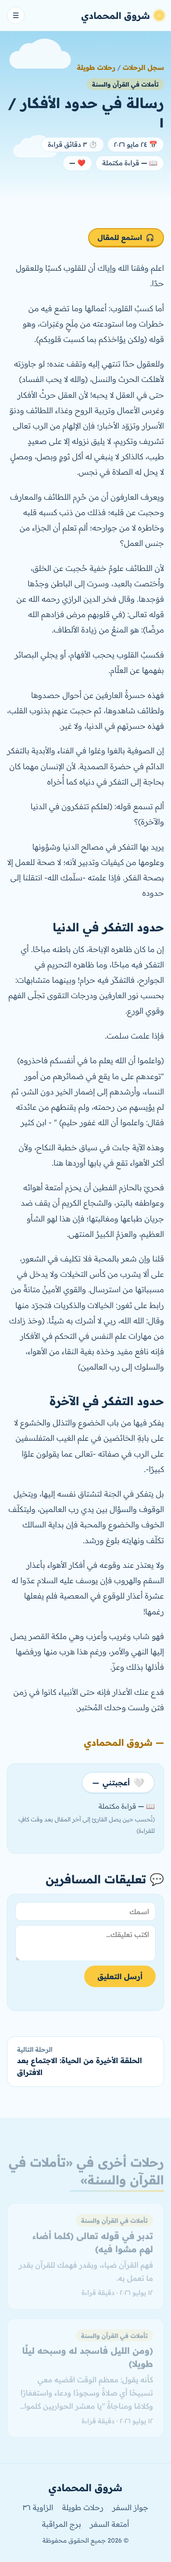
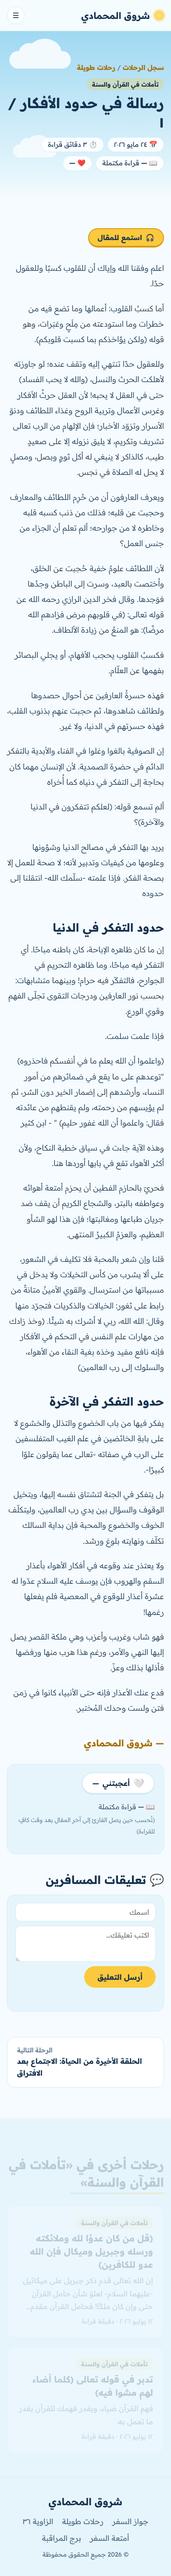
Add the article on (قل من كان عدوًا لله وملائكته ورسله وجبريل وميكال)
Claude-Session: https://claude.ai/code/session_0148avAa54TH8wvGnnB1ukQi

diff --git a/blog/articles/jibril-wa-mikal.html b/blog/articles/jibril-wa-mikal.html
@@ -1,0 +1,121 @@
+<!doctype html>
+<html lang="ar" dir="rtl">
+<head>
+  <meta charset="utf-8">
+  <meta name="viewport" content="width=device-width, initial-scale=1">
+  <title>(قل من كان عدوًا لله وملائكته ورسله وجبريل وميكال فإن الله عدو للكافرين) · شروق المحمادي</title>
+  <meta name="description" content="إن الله تعالى قدم ذكر جبريل على ميكائيل -عليهما السلام- لعلوّ شأن حامل القرآن حتى وإن كان ملكًا! فحامل القرآن مقدم على غيره في الذكر لعلو شأن الذي وقر في صدره">
+  <script>try{var t=localStorage.getItem("theme");if(t)document.documentElement.dataset.theme=t;}catch(e){}</script>
+  <link rel="preconnect" href="https://fonts.googleapis.com">
+  <link rel="preconnect" href="https://fonts.gstatic.com" crossorigin>
+  <link href="https://fonts.googleapis.com/css2?family=Readex+Pro:wght@300;400;500;600;700&family=Amiri+Quran&display=swap" rel="stylesheet">
+  <link rel="stylesheet" href="../../assets/styles.css">
+</head>
+<body>
+  <header class="site-header">
+    <div class="container nav">
+      <a href="../../index.html" class="logo"><span class="logo-sun" aria-hidden="true"></span>شروق المحمادي</a>
+      <button class="menu-toggle" aria-label="فتح القائمة" aria-expanded="false">☰</button>
+      <nav class="nav-links" aria-label="القائمة الرئيسية">
+        <a href="../../index.html">صالة المغادرة</a>
+        <a href="../../sira.html">جواز السفر</a>
+        <div class="has-sub">
+          <a href="../../blog/index.html" class="active">سجل الرحلات <span class="caret" aria-hidden="true">▾</span></a>
+          <div class="sub">
+            <a href="../../blog/articles.html" class="active">رحلات طويلة</a>
+            <a href="../../blog/zawiya-36.html">الزاوية ٣٦</a>
+          </div>
+        </div>
+        <a href="../../books.html">أمتعة السفر</a>
+        <a href="../../contact.html">برج المراقبة</a>
+        <button class="theme-toggle" aria-label="تبديل الوضع الليلي">🌙</button>
+      </nav>
+    </div>
+  </header>
+
+  <main>
+    <section class="page-hero article-hero">
+      <div class="clouds" aria-hidden="true"><span class="cloud c1"></span><span class="cloud c2"></span></div>
+      <div class="container narrow">
+        <nav class="crumbs" aria-label="مسار التنقل"><a href="../index.html">سجل الرحلات</a> / <a href="../articles.html">رحلات طويلة</a></nav>
+        <span class="tag">تأملات في القرآن والسنة</span>
+        <h1>(قل من كان عدوًا لله وملائكته ورسله وجبريل وميكال فإن الله عدو للكافرين)</h1>
+        <ul class="post-meta">
+          <li>📅 ١٢ يوليو ٢٠٢٦</li>
+          <li>⏱ دقيقة قراءة</li>
+          <li>📖 <b class="read-count">…</b> قراءة مكتملة</li>
+          <li>❤ <b class="like-count">…</b></li>
+        </ul>
+      </div>
+    </section>
+
+    <article class="section" id="post" data-slug="jibril-wa-mikal" data-minutes="0.33">
+      <div class="container narrow prose">
+        <div class="listen" hidden>
+          <button class="listen-btn" type="button"><span class="listen-icon" aria-hidden="true">🎧</span> <span class="listen-label">استمع للمقال</span></button>
+          <button class="listen-stop" type="button" hidden>⏹ إيقاف</button>
+          <button class="listen-rate" type="button" hidden>السرعة ١×</button>
+          <span class="listen-status" role="status"></span>
+        </div>
+        <p>إن الله تعالى قدم ذكر جبريل على ميكائيل -عليهما السلام- لعلوّ شأن حامل القرآن حتى وإن كان ملكًا! فحامل القرآن مقدم على غيره في الذكر لعلو شأن الذي وقر في صدره</p>
+        <p>"أنَّ جِبْرِيلَ عَلَيْهِ السَّلامُ يَنْزِلُ بِالقُرْآنِ والوَحْيِ والعِلْمِ وهو مادَّةُ بَقاءِ الأرْواحِ، ومِيكائِيلُ يَنْزِلُ بِالخِصْبِ والأمْطارِ وهي مادَّةُ بَقاءِ الأبْدانِ، ولَمّا كانَ العِلْمُ أشْرَفَ مِنَ الأغْذِيَةِ وجَبَ أنْ يَكُونَ جِبْرِيلُ أفْضَلَ مِن مِيكائِيلَ." -الرازي.</p>
+        <p class="signature">— شروق المحمادي</p>
+        <div class="engage">
+          <button class="like-btn" type="button" aria-pressed="false"><span class="heart" aria-hidden="true">🤍</span> أعجبتني <b class="like-count">…</b></button>
+          <p class="reads-note">📖 <b class="read-count">…</b> قراءة مكتملة <small>(تُحسب حين يصل القارئ إلى آخر المقال بعد وقت كافٍ للقراءة)</small></p>
+        </div>
+        <section class="comments" hidden aria-labelledby="comments-title">
+          <h2 id="comments-title">💬 تعليقات المسافرين</h2>
+          <form class="comment-form" novalidate>
+            <input name="name" type="text" maxlength="40" placeholder="اسمك" aria-label="الاسم" autocomplete="nickname">
+            <textarea name="body" rows="3" maxlength="1000" placeholder="اكتب تعليقك…" aria-label="التعليق"></textarea>
+            <input name="website" class="hp" type="text" tabindex="-1" autocomplete="off" aria-hidden="true">
+            <button type="submit" class="btn btn-primary">أرسل التعليق</button>
+            <p class="comment-status" role="status"></p>
+          </form>
+          <ol class="comment-list"></ol>
+          <p class="no-comments" hidden>لا تعليقات بعد… كن أول من يعلّق ✈</p>
+        </section>
+        <nav class="post-nav" aria-label="تنقل بين الرحلات"><a class="pn prev" href="kullama-adaa-lahum.html"><span>الرحلة السابقة</span>تدبر في قوله تعالى (كلما أضاء لهم مشوا فيه)</a></nav>
+      </div>
+    </article>
+
+    <section class="section alt">
+      <div class="container">
+        <h2 class="section-title">رحلات أخرى في «تأملات في القرآن والسنة»</h2>
+        <div class="posts">
+          <article class="post-card" data-tag="تأملات في القرآن والسنة">
+            <span class="tag">تأملات في القرآن والسنة</span>
+            <h3><a class="stretched" href="../articles/kullama-adaa-lahum.html">تدبر في قوله تعالى (كلما أضاء لهم مشوا فيه)</a></h3>
+            <p>فهم القرآن ضياء، وبقدر فهمك للقرآن بقدر ما تعمل به.</p>
+            <p class="meta">١٢ يوليو ٢٠٢٦ · دقيقة قراءة</p>
+          </article>
+          <article class="post-card" data-tag="تأملات في القرآن والسنة">
+            <span class="tag">تأملات في القرآن والسنة</span>
+            <h3><a class="stretched" href="../articles/wa-min-al-layl.html">(ومن الليل فاسجد له وسبحه ليلًا طويلا)</a></h3>
+            <p>كأنه يقول: معظم الوقت اقضيه معي تسبيحًا أي صلاةً وسجودًا ودعاء واستغفارًا وكلامًا ومناجاةً "يا معشر الحواريين كلموا الله أكثر مما تكلمون الناس" فهذا الوقت له وحده لا لنفسك ولا للخلق.</p>
+            <p class="meta">١٢ يوليو ٢٠٢٦ · دقيقة قراءة</p>
+          </article>
+        </div>
+      </div>
+    </section>
+
+  </main>
+
+  <footer class="site-footer">
+    <div class="container footer-inner">
+      <p class="footer-name">شروق المحمادي</p>
+      <nav class="footer-links" aria-label="روابط التذييل">
+        <a href="../../sira.html">جواز السفر</a>
+        <a href="../../blog/articles.html">رحلات طويلة</a>
+        <a href="../../blog/zawiya-36.html">الزاوية ٣٦</a>
+        <a href="../../books.html">أمتعة السفر</a>
+        <a href="../../contact.html">برج المراقبة</a>
+      </nav>
+      <p class="copy">© <span class="year"></span> جميع الحقوق محفوظة</p>
+    </div>
+  </footer>
+
+  <script src="../../assets/script.js"></script>
+</body>
+</html>

diff --git a/blog/articles/kullama-adaa-lahum.html b/blog/articles/kullama-adaa-lahum.html
@@ -77,7 +77,7 @@
           <ol class="comment-list"></ol>
           <p class="no-comments" hidden>لا تعليقات بعد… كن أول من يعلّق ✈</p>
         </section>
-        <nav class="post-nav" aria-label="تنقل بين الرحلات"><a class="pn prev" href="wa-min-al-layl.html"><span>الرحلة السابقة</span>(ومن الليل فاسجد له وسبحه ليلًا طويلا)</a></nav>
+        <nav class="post-nav" aria-label="تنقل بين الرحلات"><a class="pn prev" href="wa-min-al-layl.html"><span>الرحلة السابقة</span>(ومن الليل فاسجد له وسبحه ليلًا طويلا)</a><a class="pn next" href="jibril-wa-mikal.html"><span>الرحلة التالية</span>(قل من كان عدوًا لله وملائكته ورسله وجبريل وميكال فإن الله عدو للكافرين)</a></nav>
       </div>
     </article>
 
@@ -87,15 +87,15 @@
         <div class="posts">
           <article class="post-card" data-tag="تأملات في القرآن والسنة">
             <span class="tag">تأملات في القرآن والسنة</span>
-            <h3><a class="stretched" href="../articles/wa-min-al-layl.html">(ومن الليل فاسجد له وسبحه ليلًا طويلا)</a></h3>
-            <p>كأنه يقول: معظم الوقت اقضيه معي تسبيحًا أي صلاةً وسجودًا ودعاء واستغفارًا وكلامًا ومناجاةً "يا معشر الحواريين كلموا الله أكثر مما تكلمون الناس" فهذا الوقت له وحده لا لنفسك ولا للخلق.</p>
+            <h3><a class="stretched" href="../articles/jibril-wa-mikal.html">(قل من كان عدوًا لله وملائكته ورسله وجبريل وميكال فإن الله عدو للكافرين)</a></h3>
+            <p>إن الله تعالى قدم ذكر جبريل على ميكائيل -عليهما السلام- لعلوّ شأن حامل القرآن حتى وإن كان ملكًا! فحامل القرآن مقدم على غيره في الذكر لعلو شأن الذي وقر في صدره</p>
             <p class="meta">١٢ يوليو ٢٠٢٦ · دقيقة قراءة</p>
           </article>
           <article class="post-card" data-tag="تأملات في القرآن والسنة">
             <span class="tag">تأملات في القرآن والسنة</span>
-            <h3><a class="stretched" href="../articles/al-quwwa-al-manawiyya.html">القوة المعنوية هبةٌ من الله</a></h3>
-            <p>وكل قوة معنوية من صبر بأنواعه، وثبات عند الفتن وشجاعة مع القلة، وفرح وسرور عند نزول المصائب! كلها هباتٌ من الله تعالى وتأييد منه للعبد وليست من تلقاء نفسه</p>
-            <p class="meta">١١ يوليو ٢٠٢٦ · دقيقة قراءة</p>
+            <h3><a class="stretched" href="../articles/wa-min-al-layl.html">(ومن الليل فاسجد له وسبحه ليلًا طويلا)</a></h3>
+            <p>كأنه يقول: معظم الوقت اقضيه معي تسبيحًا أي صلاةً وسجودًا ودعاء واستغفارًا وكلامًا ومناجاةً "يا معشر الحواريين كلموا الله أكثر مما تكلمون الناس" فهذا الوقت له وحده لا لنفسك ولا للخلق.</p>
+            <p class="meta">١٢ يوليو ٢٠٢٦ · دقيقة قراءة</p>
           </article>
         </div>
       </div>

diff --git a/blog/index.html b/blog/index.html
@@ -50,7 +50,7 @@
             <span class="door-icon">✍</span>
             <h2>رحلات طويلة</h2>
             <p>نصوص أطول أتعمّق فيها في فكرة أو تجربة أو كتاب.</p>
-            <span class="count">١٤ رحلات</span>
+            <span class="count">١٥ رحلات</span>
           </a>
           <a class="blog-door night" href="zawiya-36.html">
             <span class="door-icon">🌙</span>
@@ -71,6 +71,12 @@
         <div class="posts">
           <article class="post-card" data-tag="تأملات في القرآن والسنة">
             <span class="tag">تأملات في القرآن والسنة</span>
+            <h3><a class="stretched" href="articles/jibril-wa-mikal.html">(قل من كان عدوًا لله وملائكته ورسله وجبريل وميكال فإن الله عدو للكافرين)</a></h3>
+            <p>إن الله تعالى قدم ذكر جبريل على ميكائيل -عليهما السلام- لعلوّ شأن حامل القرآن حتى وإن كان ملكًا! فحامل القرآن مقدم على غيره في الذكر لعلو شأن الذي وقر في صدره</p>
+            <p class="meta">١٢ يوليو ٢٠٢٦ · دقيقة قراءة</p>
+          </article>
+          <article class="post-card" data-tag="تأملات في القرآن والسنة">
+            <span class="tag">تأملات في القرآن والسنة</span>
             <h3><a class="stretched" href="articles/kullama-adaa-lahum.html">تدبر في قوله تعالى (كلما أضاء لهم مشوا فيه)</a></h3>
             <p>فهم القرآن ضياء، وبقدر فهمك للقرآن بقدر ما تعمل به.</p>
             <p class="meta">١٢ يوليو ٢٠٢٦ · دقيقة قراءة</p>
@@ -80,12 +86,6 @@
             <h3><a class="stretched" href="articles/wa-min-al-layl.html">(ومن الليل فاسجد له وسبحه ليلًا طويلا)</a></h3>
             <p>كأنه يقول: معظم الوقت اقضيه معي تسبيحًا أي صلاةً وسجودًا ودعاء واستغفارًا وكلامًا ومناجاةً "يا معشر الحواريين كلموا الله أكثر مما تكلمون الناس" فهذا الوقت له وحده لا لنفسك ولا للخلق.</p>
             <p class="meta">١٢ يوليو ٢٠٢٦ · دقيقة قراءة</p>
-          </article>
-          <article class="post-card" data-tag="تأملات في القرآن والسنة">
-            <span class="tag">تأملات في القرآن والسنة</span>
-            <h3><a class="stretched" href="articles/al-quwwa-al-manawiyya.html">القوة المعنوية هبةٌ من الله</a></h3>
-            <p>وكل قوة معنوية من صبر بأنواعه، وثبات عند الفتن وشجاعة مع القلة، وفرح وسرور عند نزول المصائب! كلها هباتٌ من الله تعالى وتأييد منه للعبد وليست من تلقاء نفسه</p>
-            <p class="meta">١١ يوليو ٢٠٢٦ · دقيقة قراءة</p>
           </article>
         </div>
       </div>

diff --git a/index.html b/index.html
@@ -77,6 +77,12 @@
         <div class="posts">
           <article class="post-card" data-tag="تأملات في القرآن والسنة">
             <span class="tag">تأملات في القرآن والسنة</span>
+            <h3><a class="stretched" href="blog/articles/jibril-wa-mikal.html">(قل من كان عدوًا لله وملائكته ورسله وجبريل وميكال فإن الله عدو للكافرين)</a></h3>
+            <p>إن الله تعالى قدم ذكر جبريل على ميكائيل -عليهما السلام- لعلوّ شأن حامل القرآن حتى وإن كان ملكًا! فحامل القرآن مقدم على غيره في الذكر لعلو شأن الذي وقر في صدره</p>
+            <p class="meta">١٢ يوليو ٢٠٢٦ · دقيقة قراءة</p>
+          </article>
+          <article class="post-card" data-tag="تأملات في القرآن والسنة">
+            <span class="tag">تأملات في القرآن والسنة</span>
             <h3><a class="stretched" href="blog/articles/kullama-adaa-lahum.html">تدبر في قوله تعالى (كلما أضاء لهم مشوا فيه)</a></h3>
             <p>فهم القرآن ضياء، وبقدر فهمك للقرآن بقدر ما تعمل به.</p>
             <p class="meta">١٢ يوليو ٢٠٢٦ · دقيقة قراءة</p>
@@ -86,12 +92,6 @@
             <h3><a class="stretched" href="blog/articles/wa-min-al-layl.html">(ومن الليل فاسجد له وسبحه ليلًا طويلا)</a></h3>
             <p>كأنه يقول: معظم الوقت اقضيه معي تسبيحًا أي صلاةً وسجودًا ودعاء واستغفارًا وكلامًا ومناجاةً "يا معشر الحواريين كلموا الله أكثر مما تكلمون الناس" فهذا الوقت له وحده لا لنفسك ولا للخلق.</p>
             <p class="meta">١٢ يوليو ٢٠٢٦ · دقيقة قراءة</p>
-          </article>
-          <article class="post-card" data-tag="تأملات في القرآن والسنة">
-            <span class="tag">تأملات في القرآن والسنة</span>
-            <h3><a class="stretched" href="blog/articles/al-quwwa-al-manawiyya.html">القوة المعنوية هبةٌ من الله</a></h3>
-            <p>وكل قوة معنوية من صبر بأنواعه، وثبات عند الفتن وشجاعة مع القلة، وفرح وسرور عند نزول المصائب! كلها هباتٌ من الله تعالى وتأييد منه للعبد وليست من تلقاء نفسه</p>
-            <p class="meta">١١ يوليو ٢٠٢٦ · دقيقة قراءة</p>
           </article>
         </div>
       </div>

diff --git a/blog/articles/wa-min-al-layl.html b/blog/articles/wa-min-al-layl.html
@@ -86,15 +86,15 @@
         <div class="posts">
           <article class="post-card" data-tag="تأملات في القرآن والسنة">
             <span class="tag">تأملات في القرآن والسنة</span>
-            <h3><a class="stretched" href="../articles/kullama-adaa-lahum.html">تدبر في قوله تعالى (كلما أضاء لهم مشوا فيه)</a></h3>
-            <p>فهم القرآن ضياء، وبقدر فهمك للقرآن بقدر ما تعمل به.</p>
+            <h3><a class="stretched" href="../articles/jibril-wa-mikal.html">(قل من كان عدوًا لله وملائكته ورسله وجبريل وميكال فإن الله عدو للكافرين)</a></h3>
+            <p>إن الله تعالى قدم ذكر جبريل على ميكائيل -عليهما السلام- لعلوّ شأن حامل القرآن حتى وإن كان ملكًا! فحامل القرآن مقدم على غيره في الذكر لعلو شأن الذي وقر في صدره</p>
             <p class="meta">١٢ يوليو ٢٠٢٦ · دقيقة قراءة</p>
           </article>
           <article class="post-card" data-tag="تأملات في القرآن والسنة">
             <span class="tag">تأملات في القرآن والسنة</span>
-            <h3><a class="stretched" href="../articles/al-quwwa-al-manawiyya.html">القوة المعنوية هبةٌ من الله</a></h3>
-            <p>وكل قوة معنوية من صبر بأنواعه، وثبات عند الفتن وشجاعة مع القلة، وفرح وسرور عند نزول المصائب! كلها هباتٌ من الله تعالى وتأييد منه للعبد وليست من تلقاء نفسه</p>
-            <p class="meta">١١ يوليو ٢٠٢٦ · دقيقة قراءة</p>
+            <h3><a class="stretched" href="../articles/kullama-adaa-lahum.html">تدبر في قوله تعالى (كلما أضاء لهم مشوا فيه)</a></h3>
+            <p>فهم القرآن ضياء، وبقدر فهمك للقرآن بقدر ما تعمل به.</p>
+            <p class="meta">١٢ يوليو ٢٠٢٦ · دقيقة قراءة</p>
           </article>
         </div>
       </div>

diff --git a/blog/articles/al-ijtima-bad-al-iftiraq.html b/blog/articles/al-ijtima-bad-al-iftiraq.html
@@ -149,14 +149,14 @@
         <div class="posts">
           <article class="post-card" data-tag="تأملات في القرآن والسنة">
             <span class="tag">تأملات في القرآن والسنة</span>
-            <h3><a class="stretched" href="../articles/kullama-adaa-lahum.html">تدبر في قوله تعالى (كلما أضاء لهم مشوا فيه)</a></h3>
-            <p>فهم القرآن ضياء، وبقدر فهمك للقرآن بقدر ما تعمل به.</p>
+            <h3><a class="stretched" href="../articles/jibril-wa-mikal.html">(قل من كان عدوًا لله وملائكته ورسله وجبريل وميكال فإن الله عدو للكافرين)</a></h3>
+            <p>إن الله تعالى قدم ذكر جبريل على ميكائيل -عليهما السلام- لعلوّ شأن حامل القرآن حتى وإن كان ملكًا! فحامل القرآن مقدم على غيره في الذكر لعلو شأن الذي وقر في صدره</p>
             <p class="meta">١٢ يوليو ٢٠٢٦ · دقيقة قراءة</p>
           </article>
           <article class="post-card" data-tag="تأملات في القرآن والسنة">
             <span class="tag">تأملات في القرآن والسنة</span>
-            <h3><a class="stretched" href="../articles/wa-min-al-layl.html">(ومن الليل فاسجد له وسبحه ليلًا طويلا)</a></h3>
-            <p>كأنه يقول: معظم الوقت اقضيه معي تسبيحًا أي صلاةً وسجودًا ودعاء واستغفارًا وكلامًا ومناجاةً "يا معشر الحواريين كلموا الله أكثر مما تكلمون الناس" فهذا الوقت له وحده لا لنفسك ولا للخلق.</p>
+            <h3><a class="stretched" href="../articles/kullama-adaa-lahum.html">تدبر في قوله تعالى (كلما أضاء لهم مشوا فيه)</a></h3>
+            <p>فهم القرآن ضياء، وبقدر فهمك للقرآن بقدر ما تعمل به.</p>
             <p class="meta">١٢ يوليو ٢٠٢٦ · دقيقة قراءة</p>
           </article>
         </div>

diff --git a/blog/articles/aw-ka-sayyib.html b/blog/articles/aw-ka-sayyib.html
@@ -100,14 +100,14 @@
         <div class="posts">
           <article class="post-card" data-tag="تأملات في القرآن والسنة">
             <span class="tag">تأملات في القرآن والسنة</span>
-            <h3><a class="stretched" href="../articles/kullama-adaa-lahum.html">تدبر في قوله تعالى (كلما أضاء لهم مشوا فيه)</a></h3>
-            <p>فهم القرآن ضياء، وبقدر فهمك للقرآن بقدر ما تعمل به.</p>
+            <h3><a class="stretched" href="../articles/jibril-wa-mikal.html">(قل من كان عدوًا لله وملائكته ورسله وجبريل وميكال فإن الله عدو للكافرين)</a></h3>
+            <p>إن الله تعالى قدم ذكر جبريل على ميكائيل -عليهما السلام- لعلوّ شأن حامل القرآن حتى وإن كان ملكًا! فحامل القرآن مقدم على غيره في الذكر لعلو شأن الذي وقر في صدره</p>
             <p class="meta">١٢ يوليو ٢٠٢٦ · دقيقة قراءة</p>
           </article>
           <article class="post-card" data-tag="تأملات في القرآن والسنة">
             <span class="tag">تأملات في القرآن والسنة</span>
-            <h3><a class="stretched" href="../articles/wa-min-al-layl.html">(ومن الليل فاسجد له وسبحه ليلًا طويلا)</a></h3>
-            <p>كأنه يقول: معظم الوقت اقضيه معي تسبيحًا أي صلاةً وسجودًا ودعاء واستغفارًا وكلامًا ومناجاةً "يا معشر الحواريين كلموا الله أكثر مما تكلمون الناس" فهذا الوقت له وحده لا لنفسك ولا للخلق.</p>
+            <h3><a class="stretched" href="../articles/kullama-adaa-lahum.html">تدبر في قوله تعالى (كلما أضاء لهم مشوا فيه)</a></h3>
+            <p>فهم القرآن ضياء، وبقدر فهمك للقرآن بقدر ما تعمل به.</p>
             <p class="meta">١٢ يوليو ٢٠٢٦ · دقيقة قراءة</p>
           </article>
         </div>

diff --git a/blog/articles/hudud-al-afkar-1.html b/blog/articles/hudud-al-afkar-1.html
@@ -107,14 +107,14 @@
         <div class="posts">
           <article class="post-card" data-tag="تأملات في القرآن والسنة">
             <span class="tag">تأملات في القرآن والسنة</span>
-            <h3><a class="stretched" href="../articles/kullama-adaa-lahum.html">تدبر في قوله تعالى (كلما أضاء لهم مشوا فيه)</a></h3>
-            <p>فهم القرآن ضياء، وبقدر فهمك للقرآن بقدر ما تعمل به.</p>
+            <h3><a class="stretched" href="../articles/jibril-wa-mikal.html">(قل من كان عدوًا لله وملائكته ورسله وجبريل وميكال فإن الله عدو للكافرين)</a></h3>
+            <p>إن الله تعالى قدم ذكر جبريل على ميكائيل -عليهما السلام- لعلوّ شأن حامل القرآن حتى وإن كان ملكًا! فحامل القرآن مقدم على غيره في الذكر لعلو شأن الذي وقر في صدره</p>
             <p class="meta">١٢ يوليو ٢٠٢٦ · دقيقة قراءة</p>
           </article>
           <article class="post-card" data-tag="تأملات في القرآن والسنة">
             <span class="tag">تأملات في القرآن والسنة</span>
-            <h3><a class="stretched" href="../articles/wa-min-al-layl.html">(ومن الليل فاسجد له وسبحه ليلًا طويلا)</a></h3>
-            <p>كأنه يقول: معظم الوقت اقضيه معي تسبيحًا أي صلاةً وسجودًا ودعاء واستغفارًا وكلامًا ومناجاةً "يا معشر الحواريين كلموا الله أكثر مما تكلمون الناس" فهذا الوقت له وحده لا لنفسك ولا للخلق.</p>
+            <h3><a class="stretched" href="../articles/kullama-adaa-lahum.html">تدبر في قوله تعالى (كلما أضاء لهم مشوا فيه)</a></h3>
+            <p>فهم القرآن ضياء، وبقدر فهمك للقرآن بقدر ما تعمل به.</p>
             <p class="meta">١٢ يوليو ٢٠٢٦ · دقيقة قراءة</p>
           </article>
         </div>

diff --git a/blog/articles/al-ghina-bil-quran.html b/blog/articles/al-ghina-bil-quran.html
@@ -97,14 +97,14 @@
         <div class="posts">
           <article class="post-card" data-tag="تأملات في القرآن والسنة">
             <span class="tag">تأملات في القرآن والسنة</span>
-            <h3><a class="stretched" href="../articles/kullama-adaa-lahum.html">تدبر في قوله تعالى (كلما أضاء لهم مشوا فيه)</a></h3>
-            <p>فهم القرآن ضياء، وبقدر فهمك للقرآن بقدر ما تعمل به.</p>
+            <h3><a class="stretched" href="../articles/jibril-wa-mikal.html">(قل من كان عدوًا لله وملائكته ورسله وجبريل وميكال فإن الله عدو للكافرين)</a></h3>
+            <p>إن الله تعالى قدم ذكر جبريل على ميكائيل -عليهما السلام- لعلوّ شأن حامل القرآن حتى وإن كان ملكًا! فحامل القرآن مقدم على غيره في الذكر لعلو شأن الذي وقر في صدره</p>
             <p class="meta">١٢ يوليو ٢٠٢٦ · دقيقة قراءة</p>
           </article>
           <article class="post-card" data-tag="تأملات في القرآن والسنة">
             <span class="tag">تأملات في القرآن والسنة</span>
-            <h3><a class="stretched" href="../articles/wa-min-al-layl.html">(ومن الليل فاسجد له وسبحه ليلًا طويلا)</a></h3>
-            <p>كأنه يقول: معظم الوقت اقضيه معي تسبيحًا أي صلاةً وسجودًا ودعاء واستغفارًا وكلامًا ومناجاةً "يا معشر الحواريين كلموا الله أكثر مما تكلمون الناس" فهذا الوقت له وحده لا لنفسك ولا للخلق.</p>
+            <h3><a class="stretched" href="../articles/kullama-adaa-lahum.html">تدبر في قوله تعالى (كلما أضاء لهم مشوا فيه)</a></h3>
+            <p>فهم القرآن ضياء، وبقدر فهمك للقرآن بقدر ما تعمل به.</p>
             <p class="meta">١٢ يوليو ٢٠٢٦ · دقيقة قراءة</p>
           </article>
         </div>

diff --git a/blog/articles/al-habl.html b/blog/articles/al-habl.html
@@ -92,14 +92,14 @@
         <div class="posts">
           <article class="post-card" data-tag="تأملات في القرآن والسنة">
             <span class="tag">تأملات في القرآن والسنة</span>
-            <h3><a class="stretched" href="../articles/kullama-adaa-lahum.html">تدبر في قوله تعالى (كلما أضاء لهم مشوا فيه)</a></h3>
-            <p>فهم القرآن ضياء، وبقدر فهمك للقرآن بقدر ما تعمل به.</p>
+            <h3><a class="stretched" href="../articles/jibril-wa-mikal.html">(قل من كان عدوًا لله وملائكته ورسله وجبريل وميكال فإن الله عدو للكافرين)</a></h3>
+            <p>إن الله تعالى قدم ذكر جبريل على ميكائيل -عليهما السلام- لعلوّ شأن حامل القرآن حتى وإن كان ملكًا! فحامل القرآن مقدم على غيره في الذكر لعلو شأن الذي وقر في صدره</p>
             <p class="meta">١٢ يوليو ٢٠٢٦ · دقيقة قراءة</p>
           </article>
           <article class="post-card" data-tag="تأملات في القرآن والسنة">
             <span class="tag">تأملات في القرآن والسنة</span>
-            <h3><a class="stretched" href="../articles/wa-min-al-layl.html">(ومن الليل فاسجد له وسبحه ليلًا طويلا)</a></h3>
-            <p>كأنه يقول: معظم الوقت اقضيه معي تسبيحًا أي صلاةً وسجودًا ودعاء واستغفارًا وكلامًا ومناجاةً "يا معشر الحواريين كلموا الله أكثر مما تكلمون الناس" فهذا الوقت له وحده لا لنفسك ولا للخلق.</p>
+            <h3><a class="stretched" href="../articles/kullama-adaa-lahum.html">تدبر في قوله تعالى (كلما أضاء لهم مشوا فيه)</a></h3>
+            <p>فهم القرآن ضياء، وبقدر فهمك للقرآن بقدر ما تعمل به.</p>
             <p class="meta">١٢ يوليو ٢٠٢٦ · دقيقة قراءة</p>
           </article>
         </div>

diff --git a/blog/articles/al-quwwa-al-manawiyya.html b/blog/articles/al-quwwa-al-manawiyya.html
@@ -88,14 +88,14 @@
         <div class="posts">
           <article class="post-card" data-tag="تأملات في القرآن والسنة">
             <span class="tag">تأملات في القرآن والسنة</span>
-            <h3><a class="stretched" href="../articles/kullama-adaa-lahum.html">تدبر في قوله تعالى (كلما أضاء لهم مشوا فيه)</a></h3>
-            <p>فهم القرآن ضياء، وبقدر فهمك للقرآن بقدر ما تعمل به.</p>
+            <h3><a class="stretched" href="../articles/jibril-wa-mikal.html">(قل من كان عدوًا لله وملائكته ورسله وجبريل وميكال فإن الله عدو للكافرين)</a></h3>
+            <p>إن الله تعالى قدم ذكر جبريل على ميكائيل -عليهما السلام- لعلوّ شأن حامل القرآن حتى وإن كان ملكًا! فحامل القرآن مقدم على غيره في الذكر لعلو شأن الذي وقر في صدره</p>
             <p class="meta">١٢ يوليو ٢٠٢٦ · دقيقة قراءة</p>
           </article>
           <article class="post-card" data-tag="تأملات في القرآن والسنة">
             <span class="tag">تأملات في القرآن والسنة</span>
-            <h3><a class="stretched" href="../articles/wa-min-al-layl.html">(ومن الليل فاسجد له وسبحه ليلًا طويلا)</a></h3>
-            <p>كأنه يقول: معظم الوقت اقضيه معي تسبيحًا أي صلاةً وسجودًا ودعاء واستغفارًا وكلامًا ومناجاةً "يا معشر الحواريين كلموا الله أكثر مما تكلمون الناس" فهذا الوقت له وحده لا لنفسك ولا للخلق.</p>
+            <h3><a class="stretched" href="../articles/kullama-adaa-lahum.html">تدبر في قوله تعالى (كلما أضاء لهم مشوا فيه)</a></h3>
+            <p>فهم القرآن ضياء، وبقدر فهمك للقرآن بقدر ما تعمل به.</p>
             <p class="meta">١٢ يوليو ٢٠٢٦ · دقيقة قراءة</p>
           </article>
         </div>

diff --git a/blog/articles/an-nahy-an-sabb-an-nafs.html b/blog/articles/an-nahy-an-sabb-an-nafs.html
@@ -87,14 +87,14 @@
         <div class="posts">
           <article class="post-card" data-tag="تأملات في القرآن والسنة">
             <span class="tag">تأملات في القرآن والسنة</span>
-            <h3><a class="stretched" href="../articles/kullama-adaa-lahum.html">تدبر في قوله تعالى (كلما أضاء لهم مشوا فيه)</a></h3>
-            <p>فهم القرآن ضياء، وبقدر فهمك للقرآن بقدر ما تعمل به.</p>
+            <h3><a class="stretched" href="../articles/jibril-wa-mikal.html">(قل من كان عدوًا لله وملائكته ورسله وجبريل وميكال فإن الله عدو للكافرين)</a></h3>
+            <p>إن الله تعالى قدم ذكر جبريل على ميكائيل -عليهما السلام- لعلوّ شأن حامل القرآن حتى وإن كان ملكًا! فحامل القرآن مقدم على غيره في الذكر لعلو شأن الذي وقر في صدره</p>
             <p class="meta">١٢ يوليو ٢٠٢٦ · دقيقة قراءة</p>
           </article>
           <article class="post-card" data-tag="تأملات في القرآن والسنة">
             <span class="tag">تأملات في القرآن والسنة</span>
-            <h3><a class="stretched" href="../articles/wa-min-al-layl.html">(ومن الليل فاسجد له وسبحه ليلًا طويلا)</a></h3>
-            <p>كأنه يقول: معظم الوقت اقضيه معي تسبيحًا أي صلاةً وسجودًا ودعاء واستغفارًا وكلامًا ومناجاةً "يا معشر الحواريين كلموا الله أكثر مما تكلمون الناس" فهذا الوقت له وحده لا لنفسك ولا للخلق.</p>
+            <h3><a class="stretched" href="../articles/kullama-adaa-lahum.html">تدبر في قوله تعالى (كلما أضاء لهم مشوا فيه)</a></h3>
+            <p>فهم القرآن ضياء، وبقدر فهمك للقرآن بقدر ما تعمل به.</p>
             <p class="meta">١٢ يوليو ٢٠٢٦ · دقيقة قراءة</p>
           </article>
         </div>
